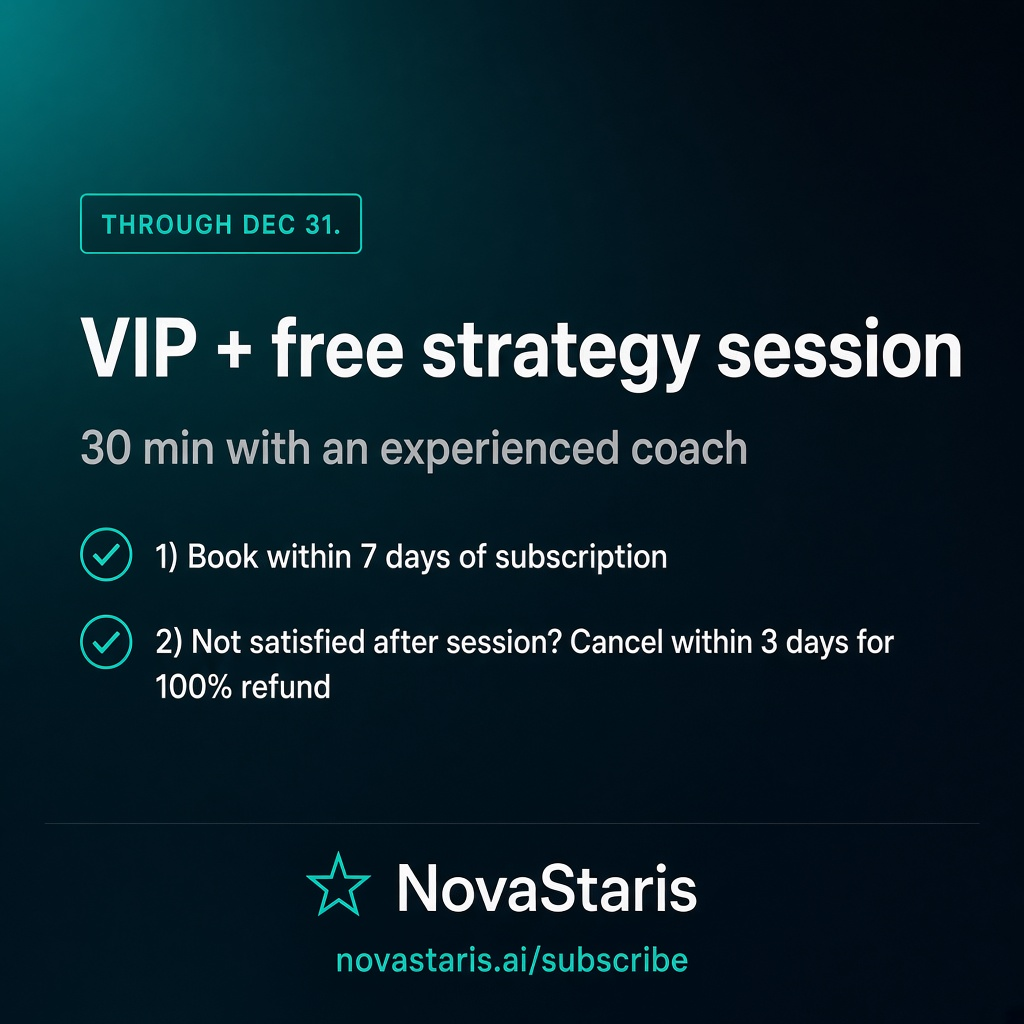
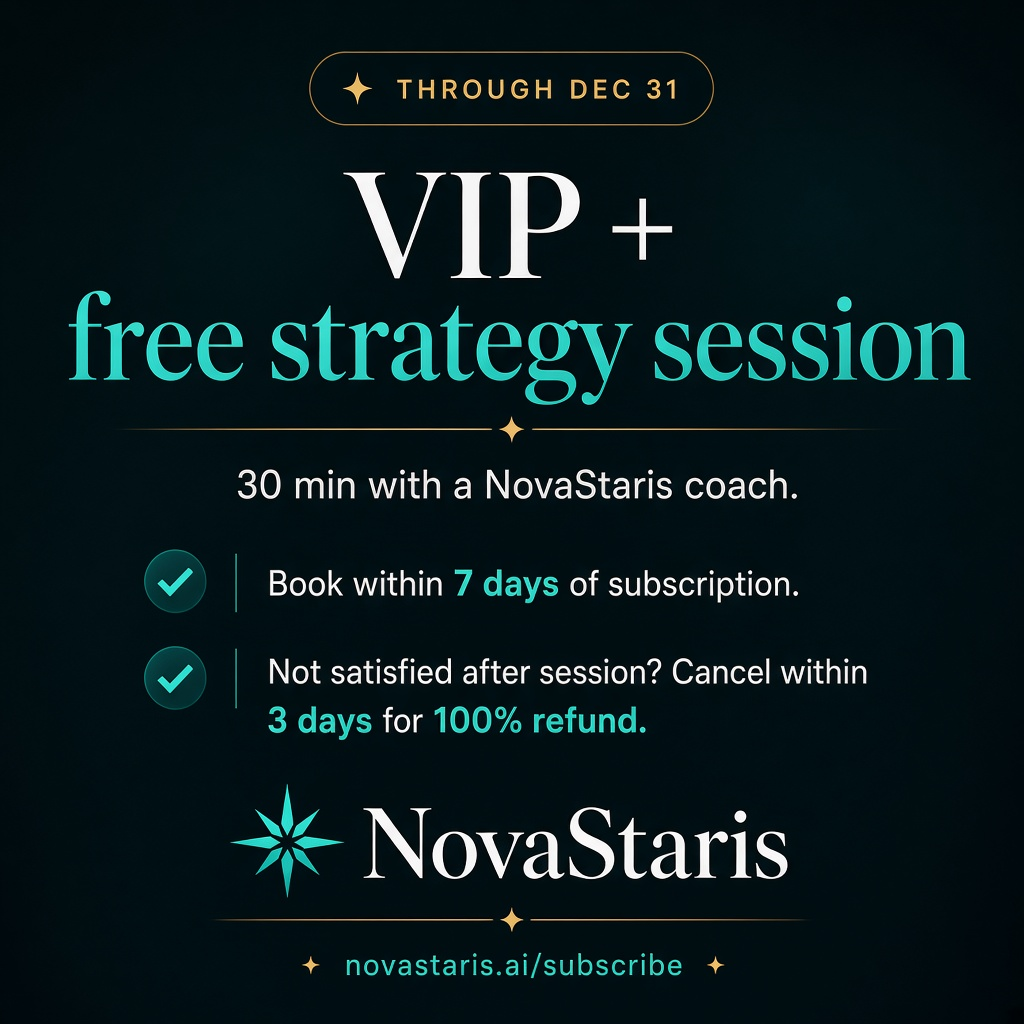
Use NovaStaris coach wording; keep educational disclaimer in Payment Terms.

diff --git a/app/payment-terms/page.tsx b/app/payment-terms/page.tsx
@@ -30,14 +30,16 @@ export default function PaymentTermsPage() {
             <p>
               <strong>VIP Strategy Session promo (through December 31, 2026).</strong> While this promotional
               offer is active, a new paid VIP subscription may include one complimentary 30-minute strategy
-              session with an experienced coach. You should book and complete the session within 7 days of
+              session with a NovaStaris coach. You should book and complete the session within 7 days of
               your VIP activation. After you complete that session, if you are not satisfied you may cancel
               VIP within 3 days of the session and request a 100% refund of the subscription fee paid for that
               qualifying purchase. This is a satisfaction guarantee tied to the coaching session —{" "}
               <strong>not</strong> a guarantee of trading profits or that you will &quot;make your fee back&quot;
               in the markets. Complimentary admin grants, unpaid trials that never convert to a paid charge, and
               renewals outside the promo window are not eligible unless we expressly say otherwise in writing.
-              Refunds are processed by support after verification. Educational only — not financial advice.
+              Refunds are processed by support after verification.{" "}
+              <strong>Educational only — not financial advice.</strong> NovaStaris and its coaches do not provide
+              personalized investment advice; you remain solely responsible for your trading decisions.
             </p>
             <p>
               <strong>Subscription period.</strong> Your access is valid for the period corresponding to the plan you purchased (e.g. 1 month, 6 months, 12 months). Access continues until the end of that period; we do not prorate refunds for early cancellation.

diff --git a/lib/vip-strategy-session-promo-email.ts b/lib/vip-strategy-session-promo-email.ts
@@ -6,14 +6,15 @@ export const VIP_STRATEGY_SESSION_LAUNCH_EMAIL = {
   subject: "VIP through Dec 31: free 30-min strategy session + satisfaction refund",
   body: `Hi there,
 
-Through December 31, every new VIP subscription includes a free 30-minute strategy session with one of our experienced coaches.
+Through December 31, every new VIP subscription includes a free 30-minute strategy session with a NovaStaris coach.
 
 How it works
 1. Subscribe to VIP at novastaris.ai/subscribe
 2. Book your strategy session within 7 days of subscription (we'll email you available times)
 3. After your session, if you're not satisfied you can cancel VIP within 3 days for a 100% refund of the subscription fee
 
-See Payment Terms for full details. Educational only — not financial advice.
+See Payment Terms for full details:
+https://novastaris.ai/payment-terms
 
 See VIP plans:
 ${VIP_STRATEGY_SESSION_SUBSCRIBE_URL}
@@ -34,13 +35,14 @@ export const VIP_STRATEGY_SESSION_BOOKING_EMAIL = {
   subject: "Book your free 30-min VIP strategy session",
   body: `Hi {{FIRST_NAME}},
 
-Thank you for going VIP — your subscription includes one free 30-minute strategy session with one of our experienced coaches.
+Thank you for going VIP — your subscription includes one free 30-minute strategy session with a NovaStaris coach.
 
 Please reply with 2–3 time windows that work for you (include your timezone). We’ll confirm a slot.
 
 Please book within 7 days of your VIP subscription.
 
-After the session, if you’re not satisfied you may cancel VIP within 3 days for a 100% refund of the subscription fee. See Payment Terms for full details.
+After the session, if you’re not satisfied you may cancel VIP within 3 days for a 100% refund of the subscription fee. See Payment Terms for full details:
+https://novastaris.ai/payment-terms
 
 Looking forward to working with you.
 

diff --git a/lib/vip-strategy-session-promo.ts b/lib/vip-strategy-session-promo.ts
@@ -15,7 +15,7 @@ export const VIP_STRATEGY_SESSION_SUBSCRIBE_URL = `${APP_ORIGIN}/subscribe`;
 export const VIP_STRATEGY_SESSION_PROMO_COPY = {
   title: "VIP promo through Dec 31: free 30-min strategy session",
   shortBlurb:
-    "Subscribe to VIP and get one free 30-minute strategy session with an experienced coach. Book within 7 days of subscription. After your session, if you’re not satisfied you can cancel VIP within 3 days for a 100% refund of the subscription fee.",
+    "Subscribe to VIP and get one free 30-minute strategy session with a NovaStaris coach. Book within 7 days of subscription. After your session, if you’re not satisfied you can cancel VIP within 3 days for a 100% refund of the subscription fee.",
   sessionLengthMins: 30,
   bookWithinDays: 7,
   refundWithinDaysAfterSession: 3,
@@ -26,12 +26,12 @@ export const VIP_STRATEGY_SESSION_BANNER: SiteAnnouncementBannerConfig = {
   enabled: true,
   title: VIP_STRATEGY_SESSION_PROMO_COPY.title,
   body: [
-    "New VIP includes a free 30-minute strategy session with one of our experienced coaches.",
+    "New VIP includes a free 30-minute strategy session with a NovaStaris coach.",
     "",
     `Book your session within ${VIP_STRATEGY_SESSION_PROMO_COPY.bookWithinDays} days of subscription.`,
     `After the session, cancel within ${VIP_STRATEGY_SESSION_PROMO_COPY.refundWithinDaysAfterSession} days for a 100% refund of your VIP fee if you’re not satisfied.`,
     "",
-    "Full details are in our Payment Terms. Educational only — not financial advice.",
+    "Full details are in our Payment Terms.",
   ].join("\n"),
   ctaLabel: "See VIP plans",
   ctaHref: "/subscribe",

diff --git a/lib/marketing-postcards.ts b/lib/marketing-postcards.ts
@@ -74,9 +74,9 @@ const SPECS: Record<MarketingPostcardId, Spec> = {
     filePrefix: "NovaStaris_VIP_Strategy_Session",
     joinUrl: "https://novastaris.ai/subscribe",
     caption: [
-      "VIP through Dec 31 — free 30-min strategy session with an experienced coach.",
+      "VIP through Dec 31 — free 30-min strategy session with a NovaStaris coach.",
       "Book within 7 days of subscription. After your session, cancel within 3 days for a 100% refund if you’re not satisfied.",
-      "See Payment Terms for details. Educational only — not financial advice.",
+      "See Payment Terms for details: https://novastaris.ai/payment-terms",
       "",
       "See plans: https://novastaris.ai/subscribe",
     ].join("\n"),

diff --git a/app/subscribe/page.tsx b/app/subscribe/page.tsx
@@ -572,7 +572,7 @@ function SubscribeContent() {
               {strategyPromo.title}
             </p>
             <p className="mt-1.5 text-xs text-zinc-700 dark:text-zinc-300 leading-relaxed">
-              Free {strategyPromo.sessionLengthMins}-minute strategy session with an experienced coach. Book within{" "}
+              Free {strategyPromo.sessionLengthMins}-minute strategy session with a NovaStaris coach. Book within{" "}
               {strategyPromo.bookWithinDays} days of subscription. After your session, cancel within{" "}
               {strategyPromo.refundWithinDaysAfterSession} days for a 100% refund of the VIP fee if you&apos;re not
               satisfied. See Payment Terms for details.

diff --git a/components/VipSoftPitchPanel.tsx b/components/VipSoftPitchPanel.tsx
@@ -75,7 +75,7 @@ export default function VipSoftPitchPanel({ tabLabel }: Props) {
             Through Dec 31: free 30-min strategy session
           </p>
           <p className="text-[11px] text-muted-foreground mt-1">
-            With an experienced coach. Book within 7 days of subscription. After the session, cancel within 3 days for
+            With a NovaStaris coach. Book within 7 days of subscription. After the session, cancel within 3 days for
             a 100% refund if you&apos;re not satisfied.
           </p>
         </div>
